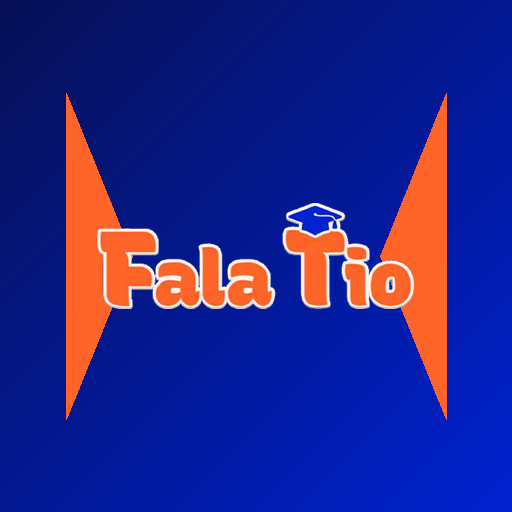
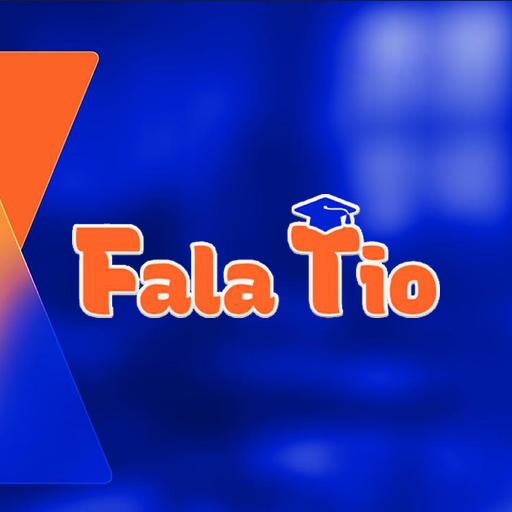
Reverte o ícone maskable para a arte cheia (versão preferida)
Volta o icon-maskable-512 a ser igual aos demais ícones (arte com o laço laranja
na lateral + logo), conforme preferência. Cache do SW -> v6.

Claude-Session: https://claude.ai/code/session_01AETX4B2938bMHYooAn1Eii

diff --git a/sw.js b/sw.js
@@ -1,7 +1,7 @@
 /* Service Worker — Fala Tio · Prospecção (PWA)
    Estratégia: network-first (sempre busca a versão mais nova online;
    usa o cache só como reserva quando estiver offline). */
-const CACHE = 'falatio-v5';
+const CACHE = 'falatio-v6';
 const SHELL = [
   './', './index.html', './css/styles.css',
   './js/config.js', './js/cloud.js', './js/data.js', './js/app.js',
